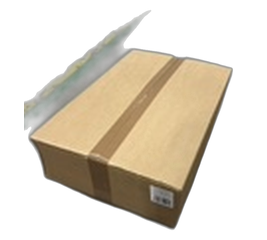
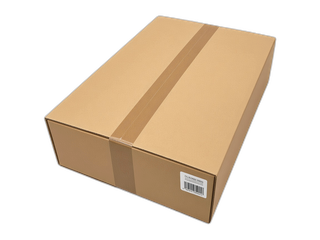
feat: Pfandsäcke-Karton freigestellt auf weißem Hintergrund
Foto ausgeschnitten, weißen Hintergrund gesetzt und bei Pfandsäcke hinterlegt.

diff --git a/index.html b/index.html
@@ -216,7 +216,7 @@ h1{margin:0;font-size:1.5rem;font-weight:700}
     { n: "RC", img: "img/p-rc.png", w: 200, h: 300 },
     { n: "IPT", emoji: "🧊" },
     { n: "RC Divider", img: "img/p-divider2.png", w: 382, h: 240 },
-    { n: "Pfandsäcke", img: "img/p-pfandsaecke.png", w: 267, h: 240 },
+    { n: "Pfandsäcke", img: "img/p-pfandsaecke.png", w: 320, h: 240 },
     { n: "Einwegtalons", emoji: "🎟" },
     { n: "Dirty bags", emoji: "🗑" },
     { n: "Clean bags", emoji: "✨" },
